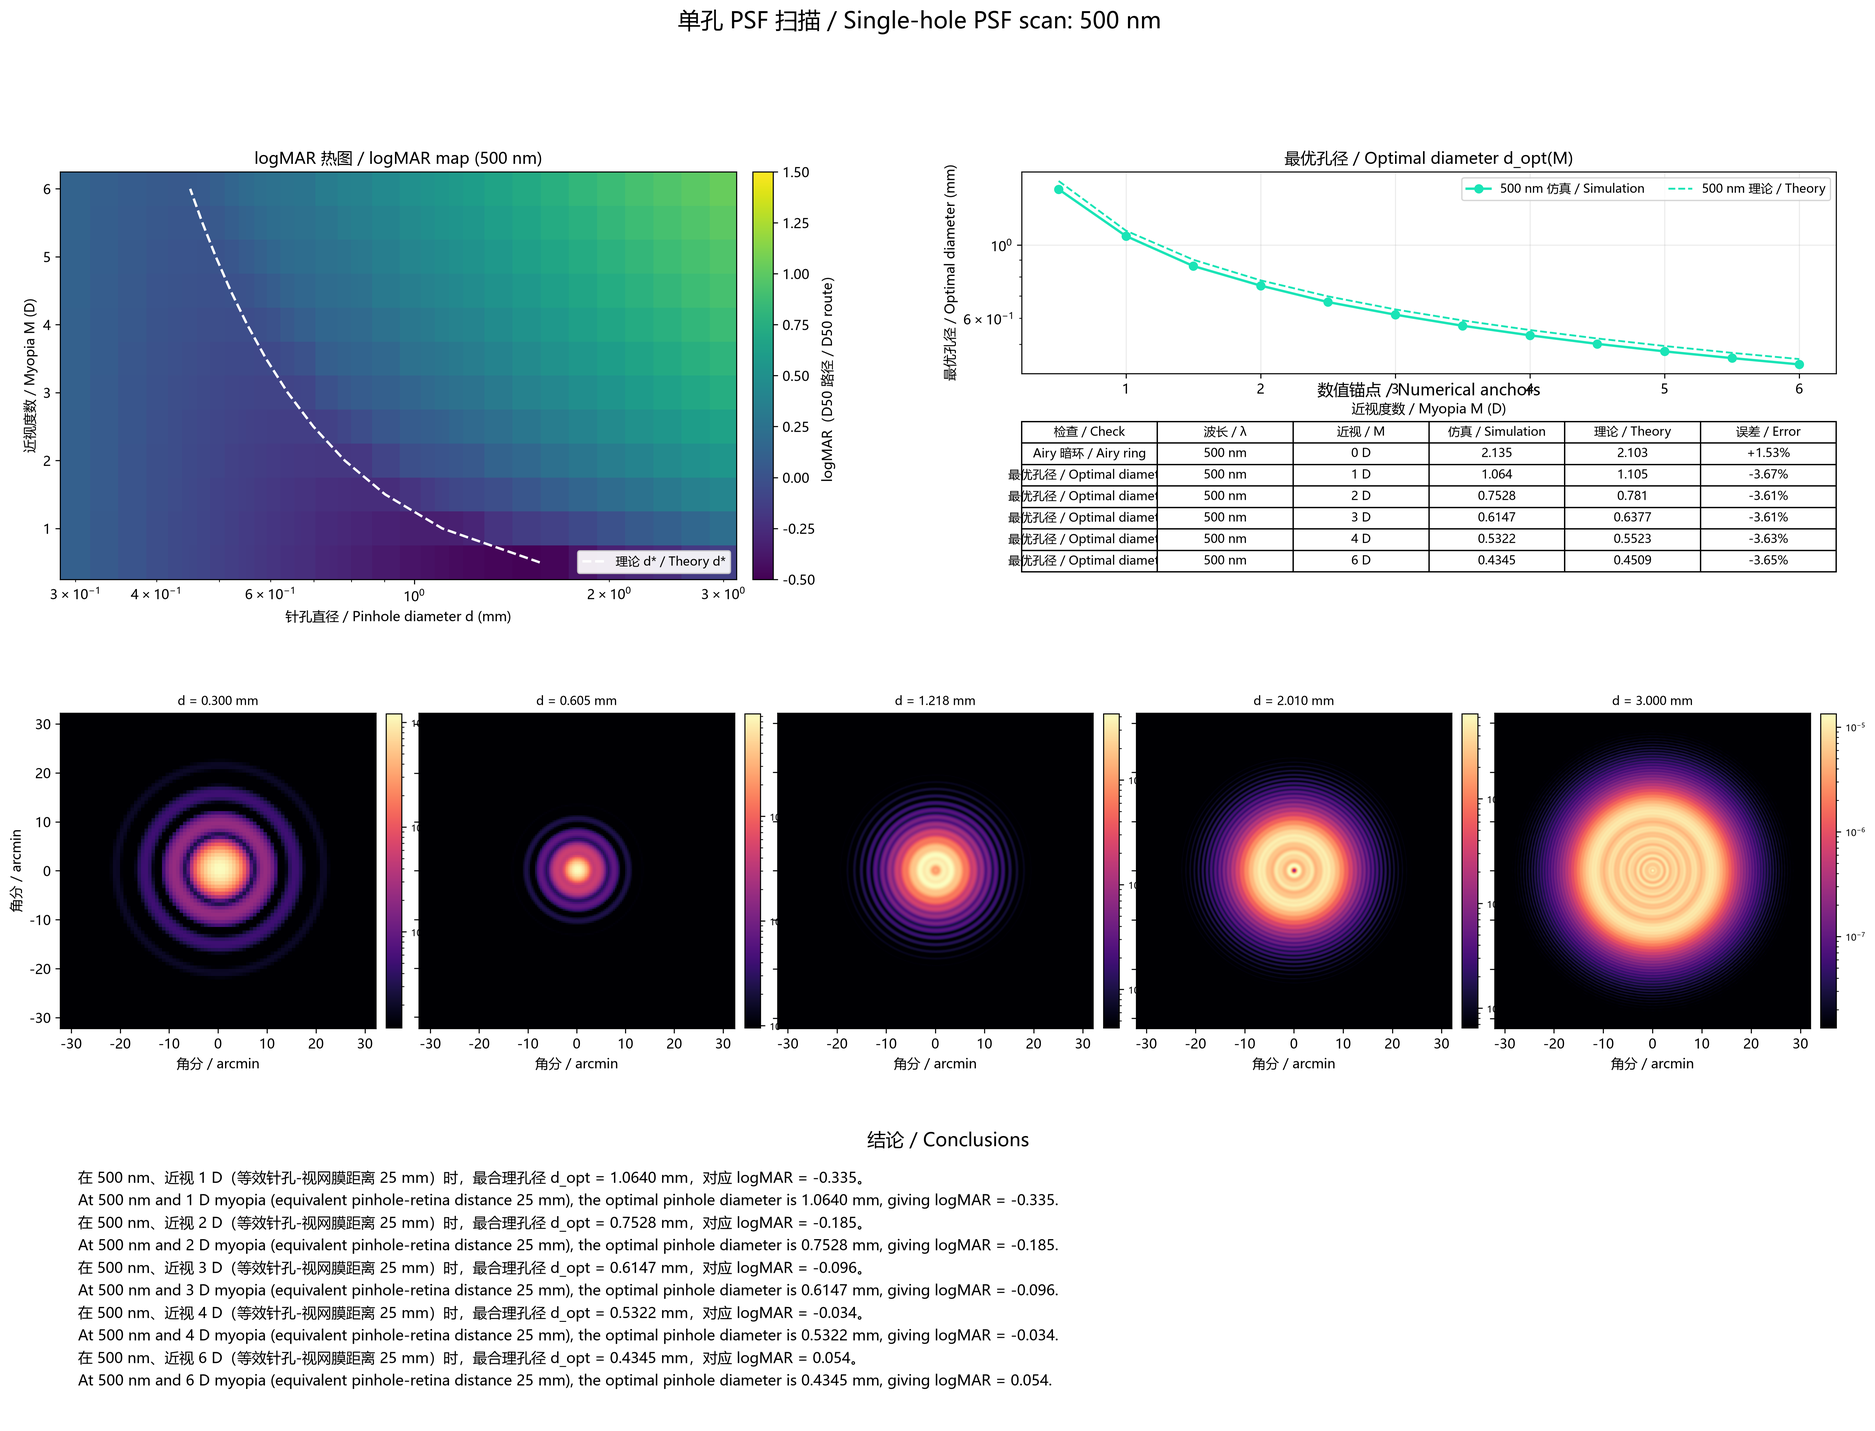
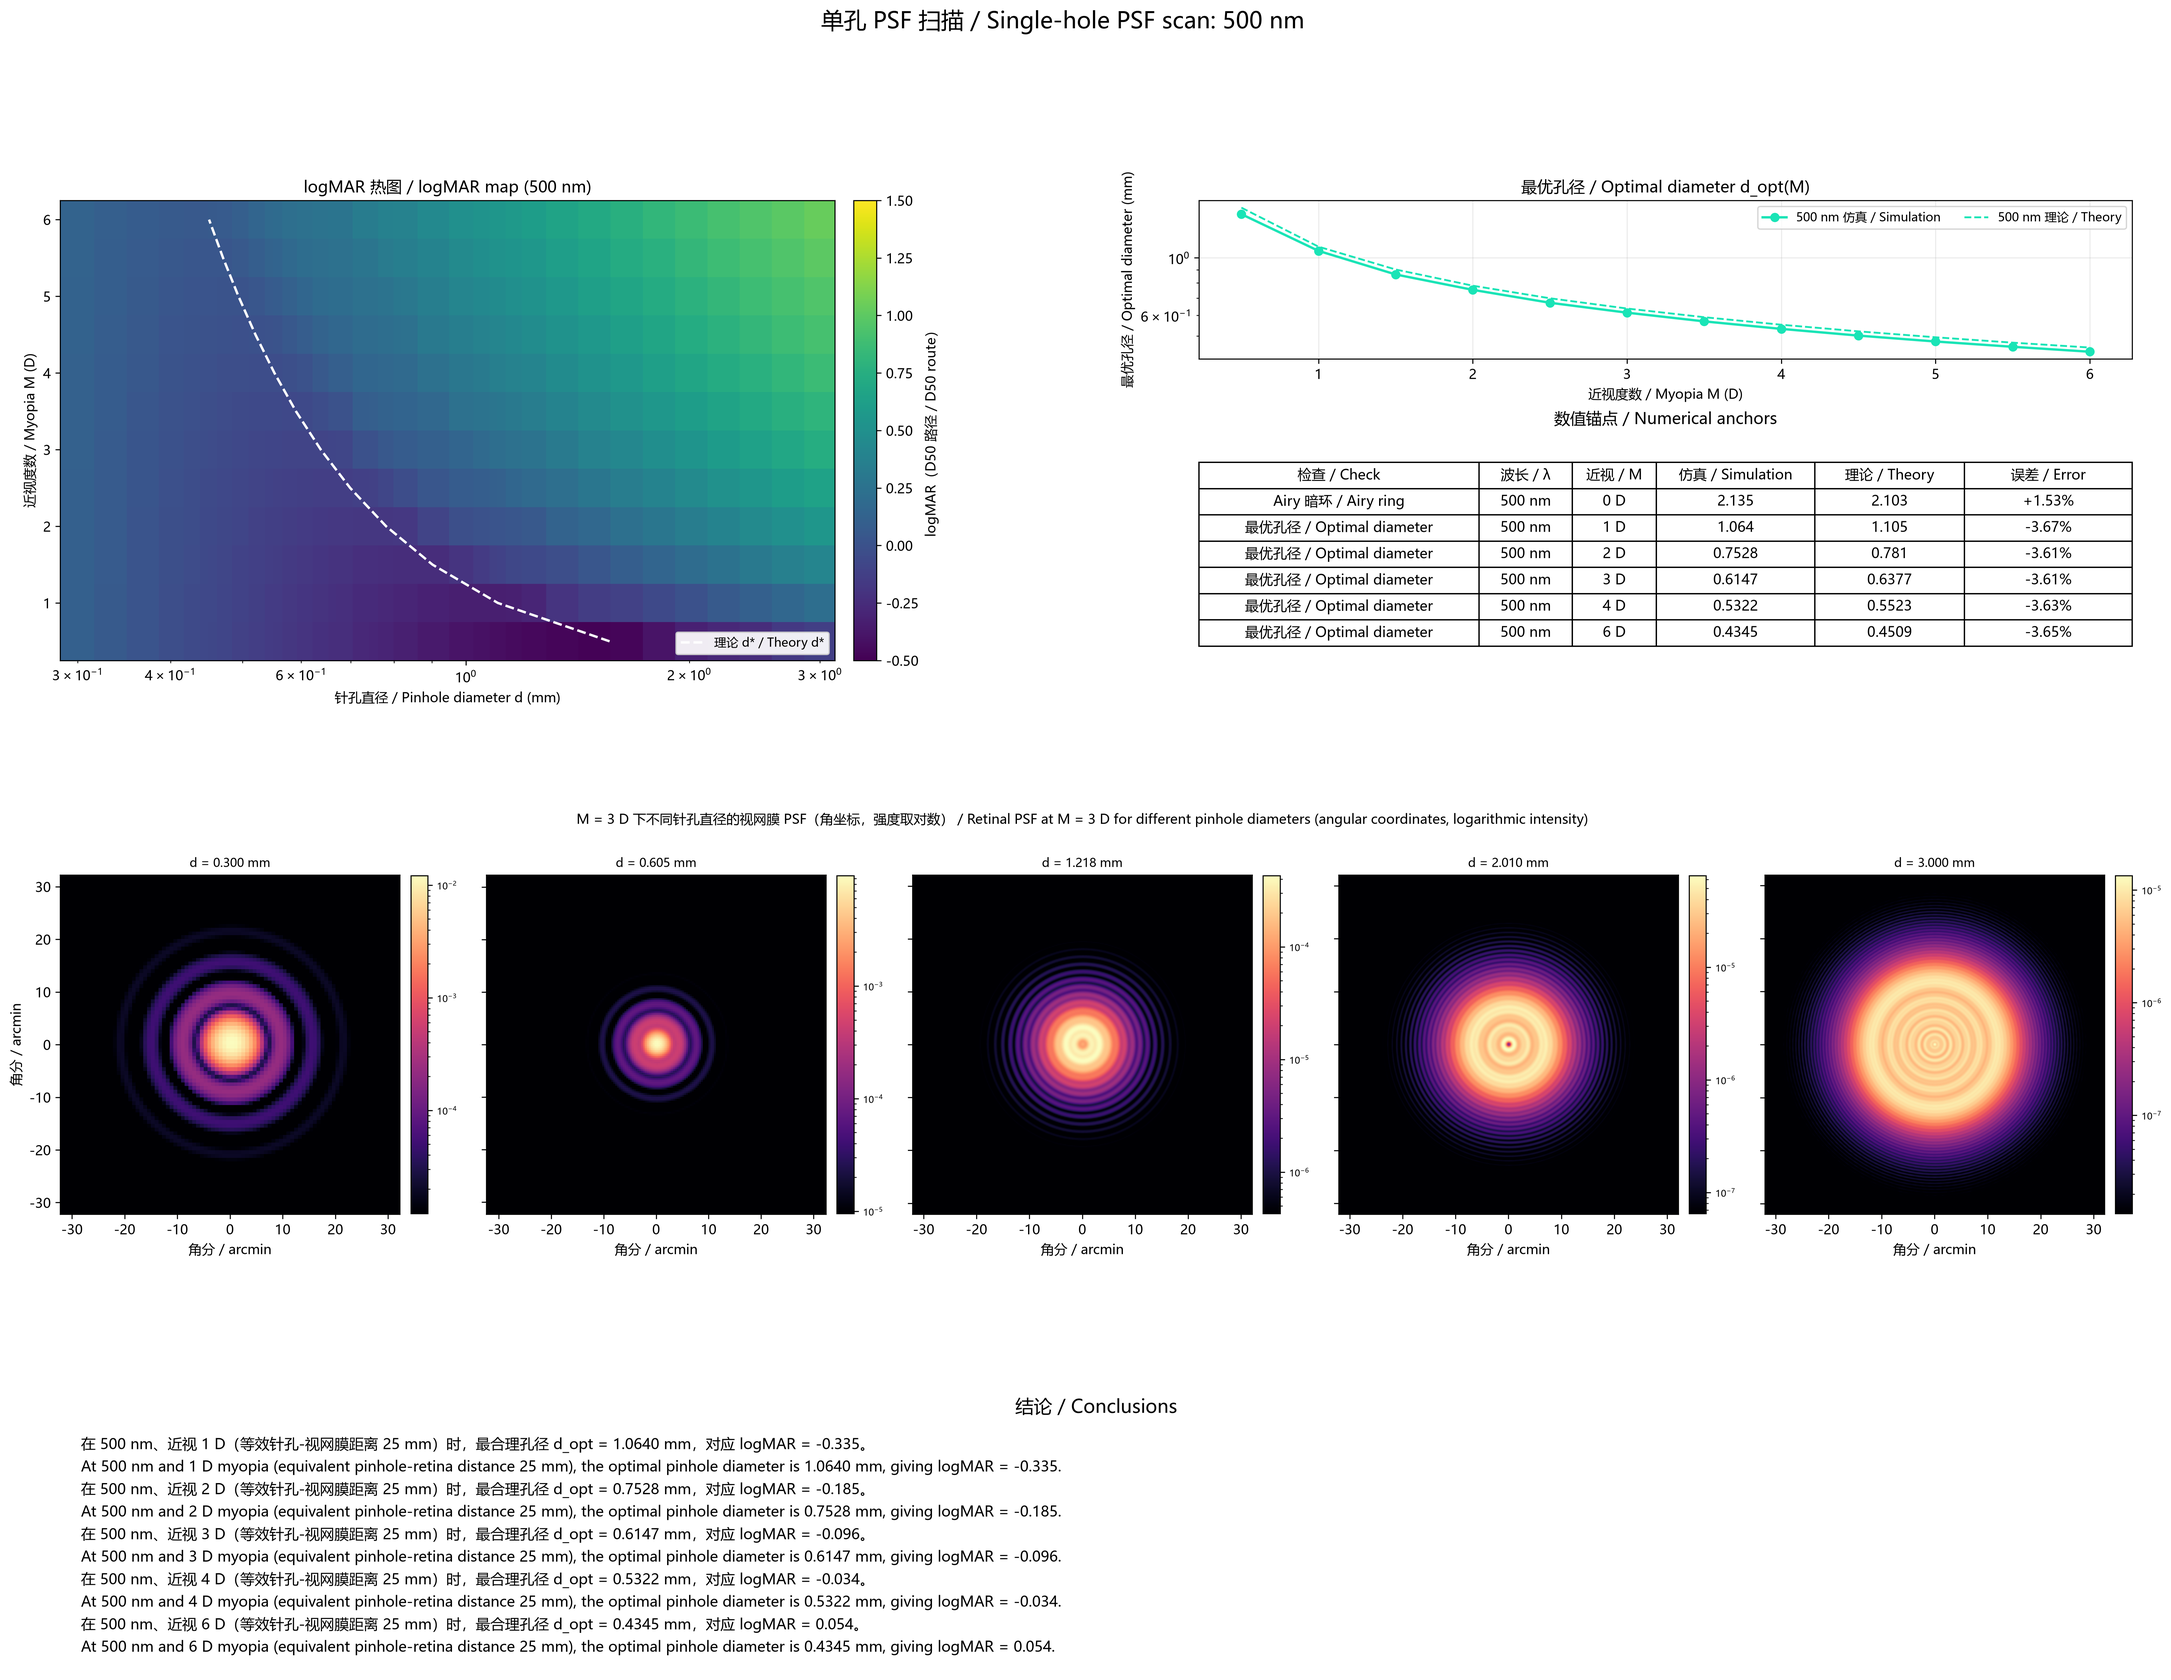
feat: 标注单孔 PSF 代表孔径图

diff --git a/single_hole_PSF.py b/single_hole_PSF.py
@@ -271,10 +271,27 @@ class SimulationConfig:
     psf_log_dynamic_range: float = 3.0
     heatmap_logmar_min: float = -0.5
     heatmap_logmar_max: float = 1.5
-    main_figure_size_inches: tuple[float, float] = (24.0, 17.0)
+    main_figure_size_inches: tuple[float, float] = (28.0, 20.0)
     comparison_figure_size_inches: tuple[float, float] = (26.0, 18.0)
     conclusion_font_size: float = 11.0
-    validation_table_font_size: float = 9.0
+    validation_table_font_size: float = 10.5
+    validation_table_scale_x: float = 1.0
+    validation_table_scale_y: float = 1.65
+    validation_table_title_pad: float = 18.0
+    validation_table_column_widths: tuple[float, ...] = (
+        0.30,
+        0.10,
+        0.09,
+        0.17,
+        0.16,
+        0.18,
+    )
+    main_grid_height_ratios: tuple[float, ...] = (1.18, 1.00, 0.62)
+    main_grid_hspace: float = 0.52
+    main_grid_wspace: float = 0.22
+    right_column_height_ratios: tuple[float, ...] = (0.88, 1.18)
+    right_column_hspace: float = 0.48
+    psf_mosaic_wspace: float = 0.16
     comparison_profile_half_width_arcmin: float = 16.0
     comparison_profile_dynamic_range: float = 4.0
     wavelength_colormap_name: str = "turbo"
@@ -1073,10 +1090,12 @@ def draw_psf_mosaic(
     config: SimulationConfig,
 ) -> None:
     mosaic = subplot_spec.subgridspec(
-        1, len(representative_diameters_mm), wspace=0.05
+        1, len(representative_diameters_mm), wspace=config.psf_mosaic_wspace
     )
+    mosaic_axes: list[plt.Axes] = []
     for index, diameter_mm in enumerate(representative_diameters_mm):
         axis = figure.add_subplot(mosaic[0, index])
+        mosaic_axes.append(axis)
         key = (wavelength_nm, diameter_mm)
         snapshot = snapshots[key]
         sampling = samplings[key]
@@ -1107,6 +1126,21 @@ def draw_psf_mosaic(
         axis.set_aspect("equal")
         colorbar = axis.figure.colorbar(image, ax=axis, fraction=0.046, pad=0.03)
         colorbar.ax.tick_params(labelsize=7)
+
+    left = mosaic_axes[0].get_position().x0
+    right = mosaic_axes[-1].get_position().x1
+    top = max(axis.get_position().y1 for axis in mosaic_axes)
+    figure.text(
+        (left + right) / 2.0,
+        top + 0.025,
+        f"M = {config.psf_snapshot_myopia_d:g} D 下不同针孔直径的视网膜 PSF"
+        "（角坐标，强度取对数） / "
+        f"Retinal PSF at M = {config.psf_snapshot_myopia_d:g} D for different "
+        "pinhole diameters (angular coordinates, logarithmic intensity)",
+        ha="center",
+        va="bottom",
+        fontsize=10.0,
+    )
 
 
 def plot_validation_table(
@@ -1149,8 +1183,17 @@ def plot_validation_table(
     )
     table.auto_set_font_size(False)
     table.set_fontsize(config.validation_table_font_size)
-    table.scale(1.0, 1.35)
-    axis.set_title("数值锚点 / Numerical anchors", pad=14)
+    table.scale(
+        config.validation_table_scale_x,
+        config.validation_table_scale_y,
+    )
+    for (_, column_index), cell in table.get_celld().items():
+        if column_index < len(config.validation_table_column_widths):
+            cell.set_width(config.validation_table_column_widths[column_index])
+    axis.set_title(
+        "数值锚点 / Numerical anchors",
+        pad=config.validation_table_title_pad,
+    )
 
 
 def save_wavelength_figure(
@@ -1169,13 +1212,16 @@ def save_wavelength_figure(
     grid = figure.add_gridspec(
         3,
         2,
-        height_ratios=(1.10, 0.92, 0.70),
-        hspace=0.36,
-        wspace=0.18,
+        height_ratios=config.main_grid_height_ratios,
+        hspace=config.main_grid_hspace,
+        wspace=config.main_grid_wspace,
     )
     heatmap_axis = figure.add_subplot(grid[0, 0])
     right_column = grid[0, 1].subgridspec(
-        2, 1, height_ratios=(1.0, 0.82), hspace=0.22
+        2,
+        1,
+        height_ratios=config.right_column_height_ratios,
+        hspace=config.right_column_hspace,
     )
     curve_axis = figure.add_subplot(right_column[0, 0])
     validation_axis = figure.add_subplot(right_column[1, 0])
